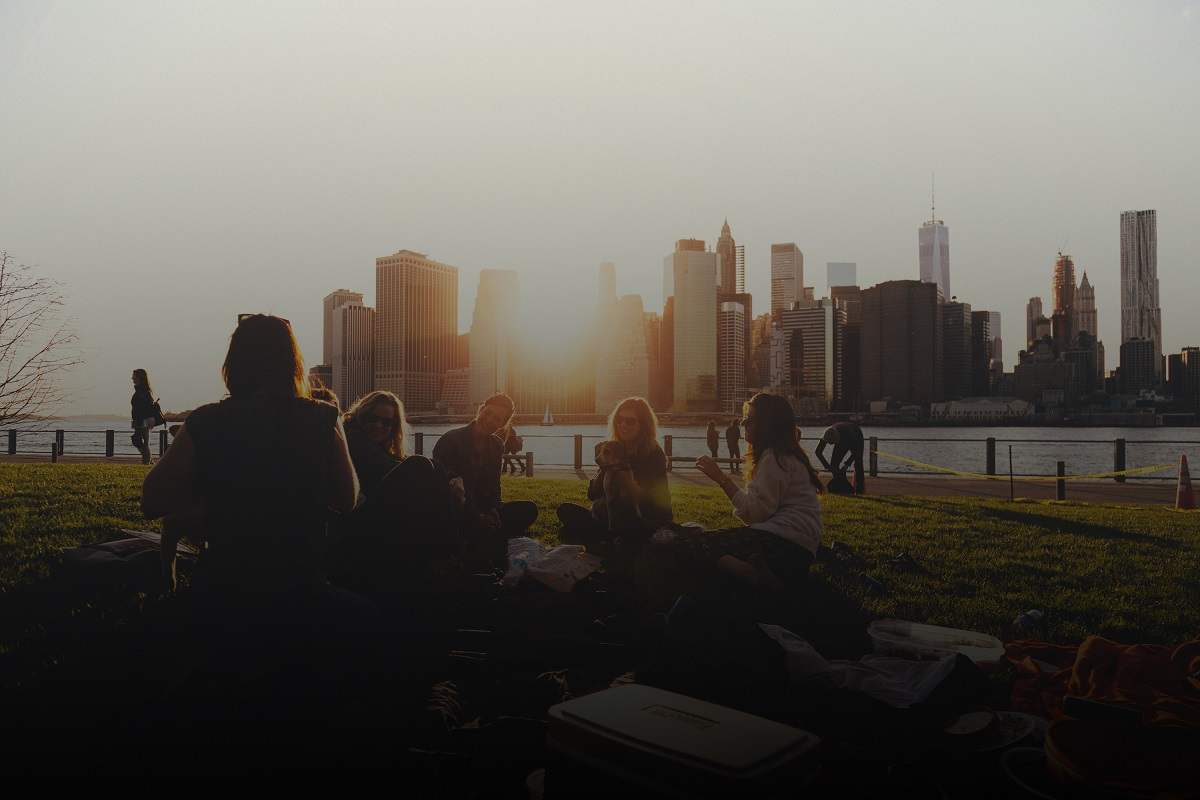
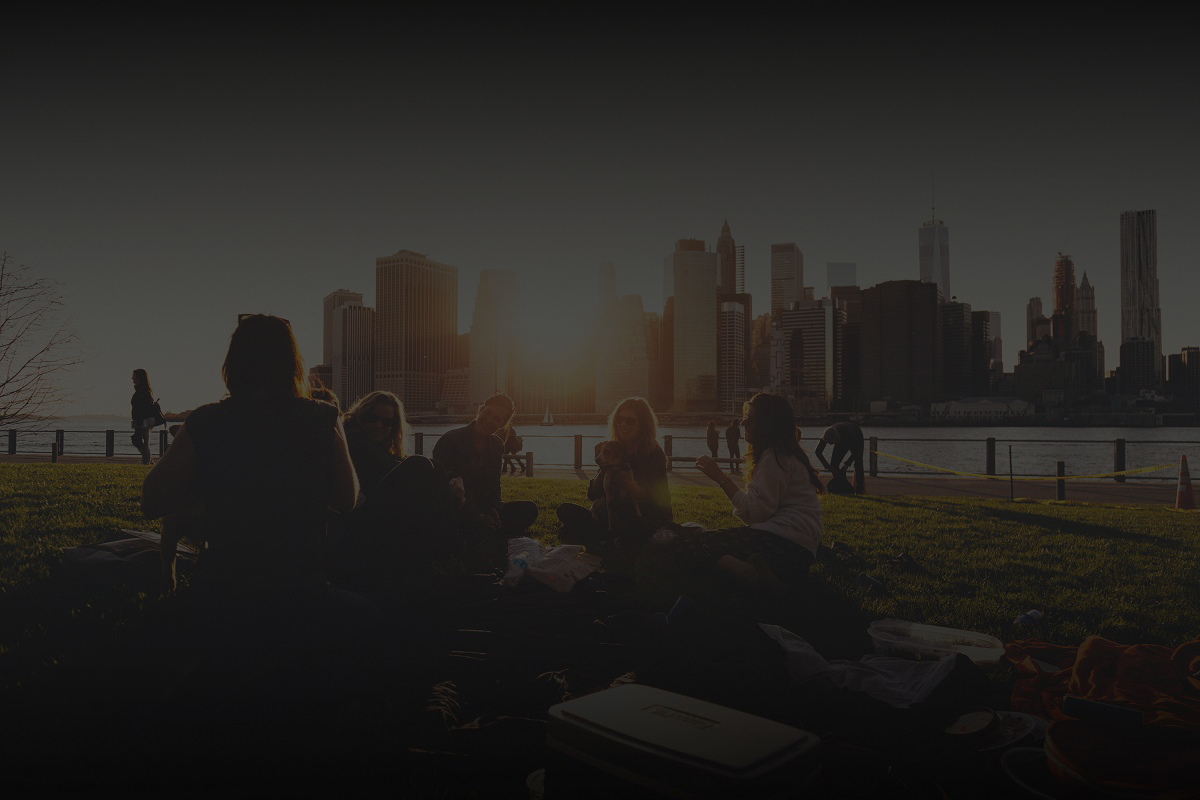
added psd of the wallpaper and first welcome screen

diff --git a/src/pages/home/home.html b/src/pages/home/home.html
@@ -1,15 +1,36 @@
-<ion-header>
-  <ion-navbar>
-    <ion-title><ion-icon name="menu" style="color: blue; cursor: pointer;" (click)="openMenu()"></ion-icon>Home</ion-title>
-  </ion-navbar>
-</ion-header>
+<ion-content style="padding: 2em;">
+  <div class="background-wrapper">
 
-<ion-content padding>
-  <h2>{{ Drink?.ingredientTitle }}</h2>
-  <p>{{ Drink?.ingredientDescription }}</p>
+    <div style="display:flex; flex-direction: row; align-items: center;">
+      <ion-icon name="ios-keypad" style="cursor: pointer; font-size: 2.5em;" (click)="openMenu()"></ion-icon>
+      <h2 style="margin:auto;">NeverEatAlone</h2>
+    </div>
+
+    <div *ngIf="login" style="display: flex; flex-direction: column; width:90%; margin: auto;">
+
+      <ion-input type="text" class="general-input" placeholder="Inserisci la tua username"></ion-input>
+      <ion-input type="password" class="general-input" placeholder="Inserisci la tua password"></ion-input>
+      <div class="button-container" style="display:flex; flex-direction: row; justify-content: center">
+        <button ion-button color="secondary">Login</button>
+        <button ion-button (click)="switchView()">Registrati</button>
+      </div>
+
+    </div>
+
+    <div *ngIf="!login" style="display: flex; flex-direction: column; width:90%; margin: auto;">
+
+      <ion-input type="email" class="general-input" placeholder="Inserisci la tua email"></ion-input>
+      <ion-input type="password" class="general-input" placeholder="Inserisci la tua password"></ion-input>
+      <ion-input type="password" class="general-input" placeholder="Conferma password"></ion-input>
+      <ion-input type="text" class="general-input" placeholder="Scegli uno username"></ion-input>
+      <div class="button-container" style="display:flex; flex-direction: row; justify-content: center">
+        <button ion-button color="secondary">Registrati</button>
+        <button ion-button (click)="switchView()">Login</button>
+      </div>
+
+    </div>
+  </div>
 </ion-content>
-
-
 
 <ion-menu [content]="content">
   <ion-header>

diff --git a/src/app/app.module.ts b/src/app/app.module.ts
@@ -7,7 +7,6 @@ import { MyApp } from './app.component';
 import { AboutPage } from '../pages/about/about';
 import { ContactPage } from '../pages/contact/contact';
 import { HomePage } from '../pages/home/home';
-import { TabsPage } from '../pages/tabs/tabs';
 
 import { StatusBar } from '@ionic-native/status-bar';
 import { SplashScreen } from '@ionic-native/splash-screen';
@@ -15,10 +14,7 @@ import { SplashScreen } from '@ionic-native/splash-screen';
 @NgModule({
   declarations: [
     MyApp,
-    AboutPage,
-    ContactPage,
     HomePage,
-    TabsPage
   ],
   imports: [
     BrowserModule,
@@ -28,10 +24,7 @@ import { SplashScreen } from '@ionic-native/splash-screen';
   bootstrap: [IonicApp],
   entryComponents: [
     MyApp,
-    AboutPage,
-    ContactPage,
     HomePage,
-    TabsPage
   ],
   providers: [
     StatusBar,

diff --git a/src/pages/home/home.scss b/src/pages/home/home.scss
@@ -1,3 +1,28 @@
 page-home {
+  .background-wrapper {
+    position: absolute;
+    top: 0;
+    bottom: 0;
+    left: 0;
+    right: 0;
+    background: url("../../assets/imgs/wallpaper.jpg");
+    background-size: cover;
+    color: #fff;
+    height: 100%;
+    padding: 2em;
+    overflow: hidden;
+    display: flex;
+    flex-direction: column;
+  }
+
+  .general-input {
+    border-radius: 5px;
+    border: 1px solid rgba(255, 255, 255, 0.2);
+    margin: .5em 0;
+  }
+
+  .button-container > button {
+    width: 100%;
+  }
 
 }

diff --git a/src/app/app.component.ts b/src/app/app.component.ts
@@ -3,13 +3,13 @@ import { Platform } from 'ionic-angular';
 import { StatusBar } from '@ionic-native/status-bar';
 import { SplashScreen } from '@ionic-native/splash-screen';
 
-import { TabsPage } from '../pages/tabs/tabs';
+import { HomePage } from '../pages/home/home';
 
 @Component({
   templateUrl: 'app.html'
 })
 export class MyApp {
-  rootPage:any = TabsPage;
+  rootPage:any = HomePage;
 
   constructor(platform: Platform, statusBar: StatusBar, splashScreen: SplashScreen) {
     platform.ready().then(() => {

diff --git a/src/pages/home/home.ts b/src/pages/home/home.ts
@@ -13,6 +13,11 @@ import { Drink } from '../../models/Drink';
 export class HomePage {
 
   public Drink: Drink;
+  public login: boolean = true;
+
+  public switchView() {
+    this.login = !this.login;
+  }
 
   constructor(public navCtrl: NavController, public _http: Http, public _menuController: MenuController) {
     this._http.get('https://www.thecocktaildb.com/api/json/v1/1/search.php?i=vodka')
